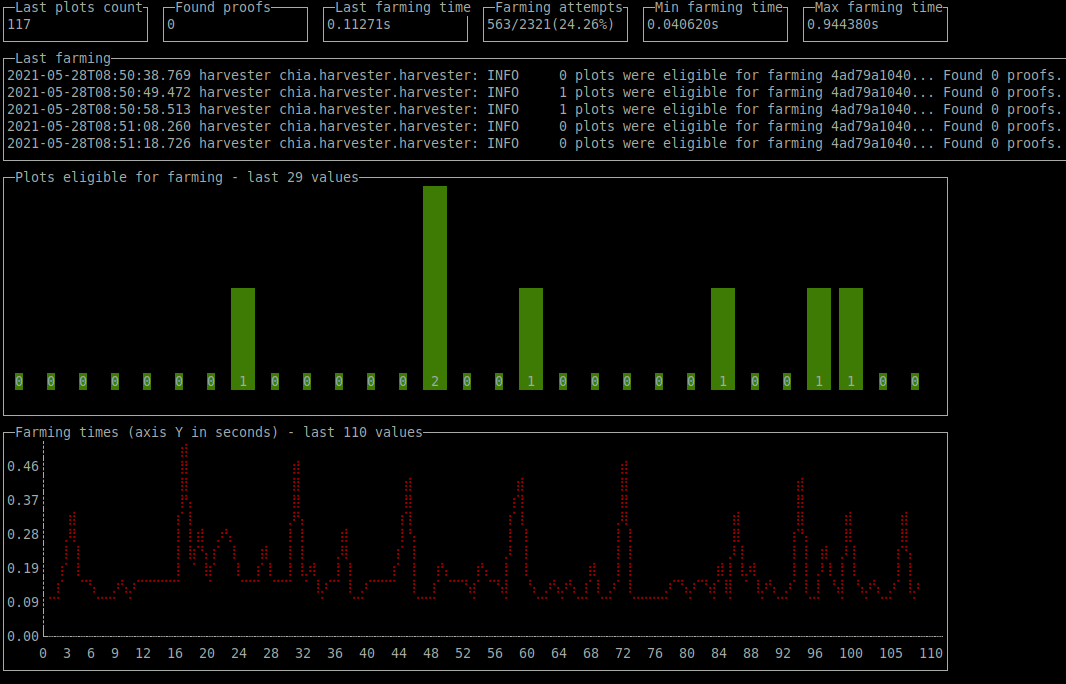
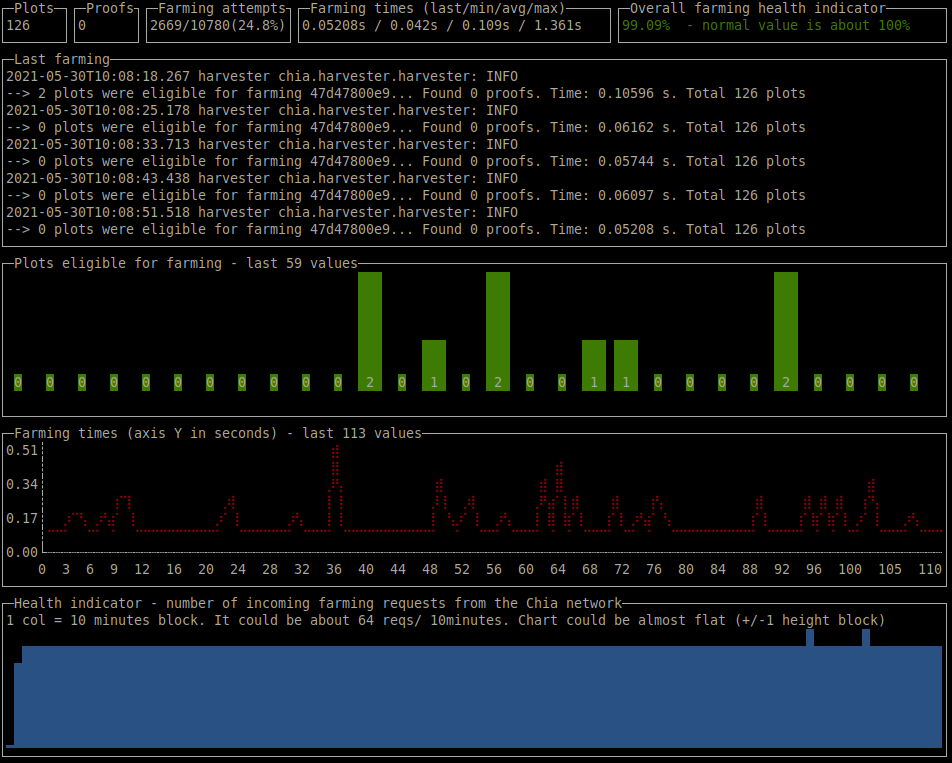
New chart + refactoring

diff --git a/chia-log-analyzer.go b/chia-log-analyzer.go
@@ -14,6 +14,7 @@ import (
 	"os"
 	"os/user"
 	"regexp"
+	"sort"
 	"strconv"
 	"strings"
 	"time"
@@ -30,12 +31,13 @@ var widgetFoundProofs *widgets.Paragraph
 var widgetLastFarmingTime *widgets.Paragraph
 var widgetTotalFarmingPlotsNumber *widgets.Paragraph
 var widgetLog *widgets.Paragraph
-var widgetMinFarmingTime *widgets.Paragraph
-var widgetMaxFarmingTime *widgets.Paragraph
 var widgetBarChart *widgets.BarChart
 var widgetBarChartParagraph *widgets.Paragraph
 var widgetBarChart2 *widgets.Plot
 var widgetBarChart2Paragraph *widgets.Paragraph
+var widgetSparklines *widgets.Sparkline
+var widgetSparklinesGroup *widgets.SparklineGroup
+var widgetOverallHealthPercent *widgets.Paragraph
 var lastRow string = ""
 var lastParsedLines []string
 
@@ -50,8 +52,10 @@ var farmingTime = "0"
 var totalPlots = "0"
 var minFarmingTime = 999999.0
 var maxFarmingTime = 0.0
+var allFarmingTimes []float64
 
 var lastLogFileSize = int64(0)
+var healthData = make(map[string]float64)
 
 type stackStruct struct {
 	lines []string
@@ -81,7 +85,7 @@ func (stack *stackStructFloats) push(value float64) {
 
 var lastParsedLinesStack = stackStruct{count: 5}
 var lastFarmStack = stackStructFloats{count: 29}
-var lastFarmingTimesStack = stackStructFloats{count: 110}
+var lastFarmingTimesStack = stackStructFloats{count: 113}
 
 func main() {
 	detectLogFileLocation()
@@ -91,69 +95,74 @@ func main() {
 	}
 	defer ui.Close()
 
-	var smallWidgetWidth = 20
 	var smallWidgetHeight = 3
 
 	widgetLastPlots = widgets.NewParagraph()
-	widgetLastPlots.SetRect(smallWidgetWidth*0, 0, smallWidgetWidth-1, smallWidgetHeight)
-	widgetLastPlots.Title = "Last plots count"
+	widgetLastPlots.SetRect(0, 0, 9, smallWidgetHeight)
+	widgetLastPlots.Title = "Plots"
 	ui.Render(widgetLastPlots)
 
 	widgetFoundProofs = widgets.NewParagraph()
-	widgetFoundProofs.SetRect(smallWidgetWidth*1, 0, (smallWidgetWidth*2)-1, smallWidgetHeight)
-	widgetFoundProofs.Title = "Found proofs"
+	widgetFoundProofs.SetRect(9, 0, 18, smallWidgetHeight)
+	widgetFoundProofs.Title = "Proofs"
 	ui.Render(widgetFoundProofs)
 
-	widgetLastFarmingTime = widgets.NewParagraph()
-	widgetLastFarmingTime.SetRect(smallWidgetWidth*2, 0, (smallWidgetWidth*3)-1, smallWidgetHeight)
-	widgetLastFarmingTime.Title = "Last farming time"
-	ui.Render(widgetLastFarmingTime)
-
 	widgetTotalFarmingPlotsNumber = widgets.NewParagraph()
-	widgetTotalFarmingPlotsNumber.SetRect(smallWidgetWidth*3, 0, (smallWidgetWidth*4)-1, smallWidgetHeight)
+	widgetTotalFarmingPlotsNumber.SetRect(18, 0, 37, smallWidgetHeight)
 	widgetTotalFarmingPlotsNumber.Title = "Farming attempts"
 	ui.Render(widgetTotalFarmingPlotsNumber)
 
-	widgetMinFarmingTime = widgets.NewParagraph()
-	widgetMinFarmingTime.SetRect(smallWidgetWidth*4, 0, (smallWidgetWidth*5)-1, smallWidgetHeight)
-	widgetMinFarmingTime.Title = "Min farming time"
-	ui.Render(widgetMinFarmingTime)
+	widgetLastFarmingTime = widgets.NewParagraph()
+	widgetLastFarmingTime.SetRect(37, 0, 77, smallWidgetHeight)
+	widgetLastFarmingTime.Title = "Farming times (last/min/avg/max)"
+	ui.Render(widgetLastFarmingTime)
 
-	widgetMaxFarmingTime = widgets.NewParagraph()
-	widgetMaxFarmingTime.SetRect(smallWidgetWidth*5, 0, (smallWidgetWidth*6)-1, smallWidgetHeight)
-	widgetMaxFarmingTime.Title = "Max farming time"
-	ui.Render(widgetMaxFarmingTime)
+	widgetOverallHealthPercent = widgets.NewParagraph()
+	widgetOverallHealthPercent.Title = "Overall farming health indicator"
+	widgetOverallHealthPercent.SetRect(77, 0, 119, smallWidgetHeight)
+	widgetOverallHealthPercent.TextStyle.Fg = ui.ColorCyan
+	widgetOverallHealthPercent.Text = "?? %"
 
 	widgetLog = widgets.NewParagraph()
-	widgetLog.SetRect(0, 10, 179, smallWidgetHeight)
+	widgetLog.SetRect(0, 15, 119, smallWidgetHeight)
 	widgetLog.Title = "Last farming"
 	ui.Render(widgetLog)
 
 	widgetBarChart = widgets.NewBarChart()
-	widgetBarChart.Data = []float64{3, 2, 5, 3, 9, 3}
-	widgetBarChart.Title = "Plots eligible for farming - last 29 values"
-	widgetBarChart.SetRect(0, 10, 119, 25)
+	widgetBarChart.Title = "Plots eligible for farming - last 59 values"
+	widgetBarChart.SetRect(0, 15, 119, 25)
+	widgetBarChart.BarWidth = 3
+	widgetBarChart.BarGap = 1
 	widgetBarChart.BarColors = []ui.Color{ui.ColorGreen}
 	widgetBarChart.LabelStyles = []ui.Style{ui.NewStyle(ui.ColorBlue)}
 	widgetBarChart.NumStyles = []ui.Style{ui.NewStyle(ui.ColorWhite)}
 
 	//widget for "not enough data"
 	widgetBarChartParagraph = widgets.NewParagraph()
-	widgetBarChartParagraph.SetRect(0, 10, 119, 25) //same as above
+	widgetBarChartParagraph.SetRect(0, 15, 119, 25) //same as above
 	widgetBarChartParagraph.Title = "Not engough data or zero values"
 
 	widgetBarChart2 = widgets.NewPlot()
-	widgetBarChart2.Title = "Farming times (axis Y in seconds) - last 110 values"
+	widgetBarChart2.Title = "Farming times (axis Y in seconds) - last 113 values"
 	widgetBarChart2.Data = make([][]float64, 1)
-	widgetBarChart2.SetRect(0, 25, 119, 40)
+	widgetBarChart2.SetRect(0, 25, 119, 35)
 	widgetBarChart2.AxesColor = ui.ColorWhite
 	widgetBarChart2.LineColors[0] = ui.ColorRed
 	widgetBarChart2.Marker = widgets.MarkerBraille
 
 	//widget for "not enough data"
 	widgetBarChart2Paragraph = widgets.NewParagraph()
-	widgetBarChart2Paragraph.SetRect(0, 25, 119, 40) //same as above
+	widgetBarChart2Paragraph.SetRect(0, 25, 119, 35) //same as above
 	widgetBarChart2Paragraph.Title = "Not engough data or zero values"
+
+	widgetSparklines = widgets.NewSparkline()
+	widgetSparklines.Title = "1 col = 10 minutes block. It could be about 64 reqs/ 10minutes. Chart could be almost flat (+/-1 height block)"
+	widgetSparklines.LineColor = ui.ColorBlue
+	widgetSparklines.TitleStyle.Fg = ui.ColorWhite
+
+	widgetSparklinesGroup = widgets.NewSparklineGroup(widgetSparklines)
+	widgetSparklinesGroup.Title = "Health indicator - number of incoming farming requests from the Chia network"
+	widgetSparklinesGroup.SetRect(0, 35, 119, 45)
 
 	go loopReadFile()
 
@@ -173,7 +182,7 @@ func detectLogFileLocation() {
 	flag.Parse()
 	missingLogFile := false
 
-	//1 - try open debug.log in actual directory or get file from paremeter "log"
+	//1 - try open debug.log in the actual directory or get file from the paremeter "log"
 	fmt.Printf("trying: %s\n", *debuglogFile)
 	if _, err := os.Stat(*debuglogFile); os.IsNotExist(err) {
 		missingLogFile = true
@@ -181,7 +190,7 @@ func detectLogFileLocation() {
 		return
 	}
 
-	//2 - try open debug log from default home location
+	//2 - try open debug log from the default home location
 	usr, _ := user.Current()
 	dir := usr.HomeDir
 	defaultLogLocation := fmt.Sprintf("%s/.chia/mainnet/log/debug.log", dir)
@@ -202,11 +211,13 @@ func detectLogFileLocation() {
 func loopReadFile() {
 	renderLog(fmt.Sprintf("Reading log %s, please wait", *debuglogFile))
 	readFullFile(*debuglogFile)
+	setLastLogFileSize(*debuglogFile)
+
 	c := time.Tick(5 * time.Second)
 	var actualLogFileSize int64
 	for range c {
 		actualLogFileSize, _ = getFileSize(*debuglogFile)
-		if actualLogFileSize == 0 {
+		if actualLogFileSize == 0 || actualLogFileSize == lastLogFileSize {
 			continue
 		}
 		if actualLogFileSize < lastLogFileSize { // new file ?
@@ -236,8 +247,6 @@ func readFullFile(fname string) {
 	if _, err := os.Stat(fname); os.IsNotExist(err) {
 		return
 	}
-
-	//setLastLogFileSize(fname)
 
 	// os.Open() opens specific file in
 	// read-only mode and this return
@@ -279,8 +288,6 @@ func readFile(fname string) {
 	if _, err := os.Stat(fname); os.IsNotExist(err) {
 		return
 	}
-
-	//setLastLogFileSize(fname)
 
 	file, err := os.Open(fname)
 	if err != nil {
@@ -336,6 +343,16 @@ func parseLines(lines []string) {
 		if regexPlotsFarming.MatchString(s) {
 			lastParsedLinesStack.push(s)
 
+			//extract number of requests in 10minutes blocks
+			runes := []rune(s)
+			dateTime := string(runes[0:15]) //1 or 10-minutes (15=10min, 16=1min)
+			_, exists := healthData[dateTime]
+			if !exists {
+				healthData[dateTime] = 0
+			}
+			healthData[dateTime] = healthData[dateTime] + 1
+
+			//plots + proofs
 			match := regexPlotsFarming.FindStringSubmatch(s)
 			farmingPlotsNumber, _ := strconv.Atoi(match[1])
 			foundProofsActual, _ := strconv.Atoi(match[2])
@@ -351,7 +368,10 @@ func parseLines(lines []string) {
 			totalFarmingAttempt++
 			lastFarmStack.push(float64(farmingPlotsNumber)) //data for barchart
 
-			parsedTime, _ := strconv.ParseFloat(farmingTime, 8)
+			parsedTime, _ := strconv.ParseFloat(farmingTime, 8) //last time
+
+			allFarmingTimes = append(allFarmingTimes, parsedTime) //for AVG computing
+
 			if parsedTime < float64(minFarmingTime) {
 				minFarmingTime = parsedTime
 			}
@@ -359,29 +379,33 @@ func parseLines(lines []string) {
 				maxFarmingTime = parsedTime
 			}
 			lastFarmingTimesStack.push(parsedTime)
-
-			renderWidgets()
 		}
 	}
+
 	renderWidgets()
 	renderLastFarmBarChart()
 	renderLastFarmBarChart2()
+	renderSparkLines()
 
 	var tmpTxt strings.Builder
 	for i := range lastParsedLinesStack.lines {
-		tmpTxt.WriteString(lastParsedLinesStack.lines[i])
+		//tmpTxt.WriteString(lastParsedLinesStack.lines[i])
+		twoCols := strings.Split(lastParsedLinesStack.lines[i], "    ")
+		tmpTxt.WriteString(twoCols[0])
+		tmpTxt.WriteString("\n")
+		tmpTxt.WriteString("-->")
+		tmpTxt.WriteString(twoCols[1])
 		tmpTxt.WriteString("\n")
 	}
 	renderLog(tmpTxt.String())
 }
 
 func renderWidgets() {
+	renderOverallHealth()
 	renderTotalFarmingPlotsNumber()
 	renderLastPlots()
 	renderFoundProofs()
 	renderLastFarmingTime()
-	renderMinFarmingTime()
-	renderMaxFarmingTime()
 }
 
 func renderTotalFarmingPlotsNumber() {
@@ -389,7 +413,7 @@ func renderTotalFarmingPlotsNumber() {
 	if totalFarmingAttempt > 0 {
 		percent = float64(float64(positiveFarmingAttempt)/float64(totalFarmingAttempt)) * 100
 	}
-	widgetTotalFarmingPlotsNumber.Text = fmt.Sprintf("%d/%d(%.2f%%)", positiveFarmingAttempt, totalFarmingAttempt, percent)
+	widgetTotalFarmingPlotsNumber.Text = fmt.Sprintf("%d/%d(%.1f%%)", positiveFarmingAttempt, totalFarmingAttempt, percent)
 	ui.Render(widgetTotalFarmingPlotsNumber)
 }
 
@@ -404,7 +428,13 @@ func renderFoundProofs() {
 }
 
 func renderLastFarmingTime() {
-	widgetLastFarmingTime.Text = fmt.Sprintf("%ss", farmingTime)
+	total := 0.0
+	for _, number := range allFarmingTimes {
+		total = total + number
+	}
+	average := total / float64(len(allFarmingTimes))
+
+	widgetLastFarmingTime.Text = fmt.Sprintf("%ss / %.3fs / %.3fs / %.3fs", farmingTime, minFarmingTime, average, maxFarmingTime)
 	ui.Render(widgetLastFarmingTime)
 }
 
@@ -413,14 +443,30 @@ func renderLog(text string) {
 	ui.Render(widgetLog)
 }
 
-func renderMinFarmingTime() {
-	widgetMinFarmingTime.Text = fmt.Sprintf("%fs", minFarmingTime)
-	ui.Render(widgetMinFarmingTime)
-}
+func renderOverallHealth() {
+	values := sortMap(healthData)
+	values = values[1 : len(values)-1] //remove the first and the last (may be incomplete)
+	sum := sumFloats(values)
+	avg := sum / float64(len(values))
 
-func renderMaxFarmingTime() {
-	widgetMaxFarmingTime.Text = fmt.Sprintf("%fs", maxFarmingTime)
-	ui.Render(widgetMaxFarmingTime)
+	//in chia network we can see 6.4 req/minute (64 req/10minutes) for farming
+	percent := avg / 64 * 100
+
+	/*
+		if percent > 100 { //result may be > 100%, but it is due some meassure inaccuracy
+			percent = 100 //overwrite down to 100% is OK
+		}*/
+
+	//percent := avg
+	widgetOverallHealthPercent.TextStyle.Fg = ui.ColorRed
+	if percent > 80 {
+		widgetOverallHealthPercent.TextStyle.Fg = ui.ColorCyan
+	}
+	if percent > 95 {
+		widgetOverallHealthPercent.TextStyle.Fg = ui.ColorGreen
+	}
+	widgetOverallHealthPercent.Text = fmt.Sprintf("%.2f%%  - normal value is about 100%%", percent)
+	ui.Render(widgetOverallHealthPercent)
 }
 
 func renderLastFarmBarChart() {
@@ -445,4 +491,52 @@ func renderLastFarmBarChart2() {
 	}
 
 	ui.Render(widgetBarChart2Paragraph)
+}
+
+func renderSparkLines() {
+
+	if len(healthData) == 0 {
+		return
+	}
+
+	v := sortMap(healthData)
+
+	sliceNumberOfValues := 117
+	if len(v) < sliceNumberOfValues {
+		sliceNumberOfValues = len(v)
+		v = v[len(v)-sliceNumberOfValues:]
+	}
+
+	widgetSparklines.Data = v
+	ui.Render(widgetSparklinesGroup)
+}
+
+func sortMap(m map[string]float64) []float64 {
+	if len(m) == 0 {
+		return make([]float64, 0)
+	}
+
+	v := make([]float64, 0, len(m))
+
+	//sort map by keys
+	keys := make([]string, 0, len(m))
+	for k := range m {
+		keys = append(keys, k)
+	}
+	sort.Strings(keys)
+	for _, k := range keys {
+		v = append(v, m[k])
+	}
+
+	return v
+}
+
+func sumFloats(input []float64) float64 {
+	sum := 0.0
+
+	for i := range input {
+		sum += input[i]
+	}
+
+	return sum
 }
